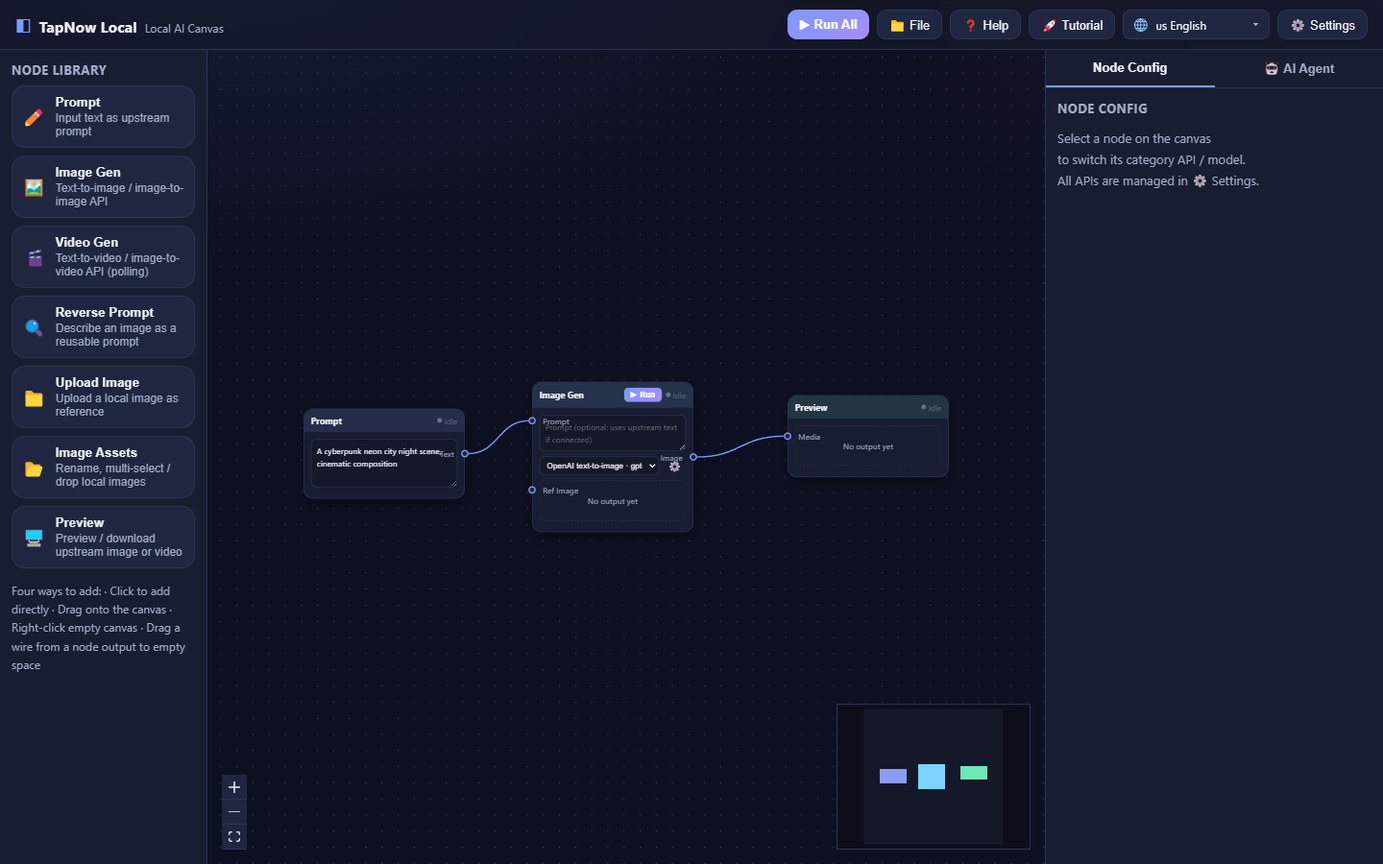
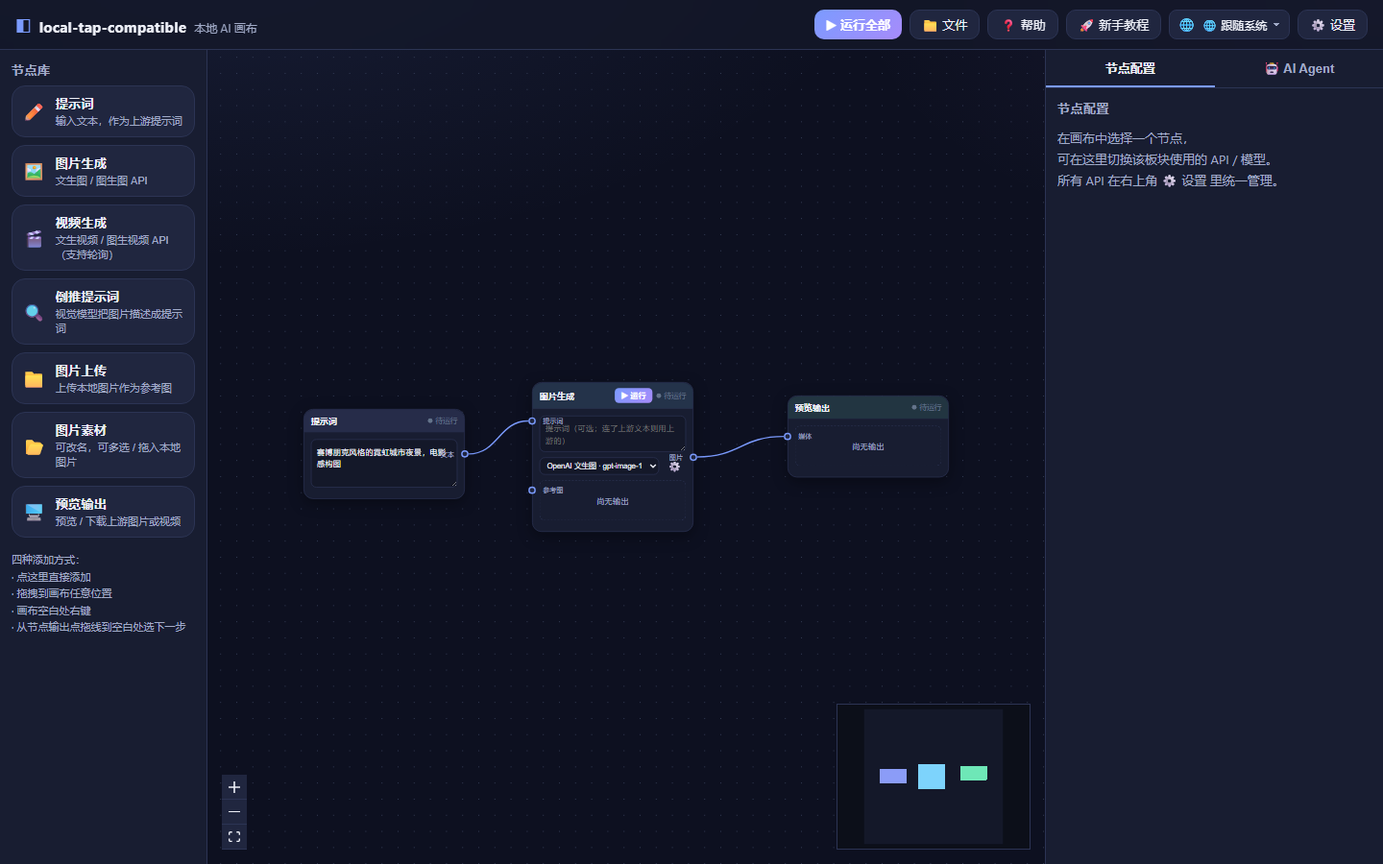
rebrand: rename TapNow references to local-tap-compatible (drop third-party trademark)
- Rename project/repo references from TapNow Local to local-tap-compatible
  across README, package.json, index.html, docs and GitHub badges/links
- Rename desktop project TapNowLocal.csproj -> LocalTapCompatible.csproj and
  namespace/assembly to LocalTapCompatible; align API bridge window name
- Remove remaining TapNow trademark wording from copy; rework prose to be
  ComfyUI-compatible only
- Add docs/_demo-sample.jpg

diff --git a/src/locales/ja.js b/src/locales/ja.js
@@ -16,8 +16,8 @@ export default {
   "preset.openai-compatible-vision": "AI Platform 互換ビジョン（Qwen-VL など）",
   "preset.async-video": "汎用非同期動画（送信 + ポーリング）",
   'help.exampleBody': "// AI Platform 画像生成\nプリセット: AI Platform text-to-image\nモデル: gpt-image-1\nボディ: { \"model\": \"{{model}}\", \"prompt\": \"{{prompt}}\", \"n\": 1, \"size\": \"1024x1024\" }\n抽出: data[0].url\n\n// 汎用非同期動画\nプリセット: 汎用非同期動画（タスク送信 + ポーリング）\n送信: POST {baseUrl}/videos/generations\n照会: GET {baseUrl}/videos/generations/{id}\n状態フィールド: status（succeeded = 完了）\n結果フィールド: output.video_url",
-  'app.metaDescription': "TapNow Local はローカルで動く無限キャンバス型ノードAIワークフローツール。自分のAPIで画像生成・動画生成・逆引きプロンプトが可能。",
-  'app.documentTitle': "TapNow Local — ローカル AI 無限キャンバス",
+  'app.metaDescription': "local-tap-compatible はローカルで動く無限キャンバス型ノードAIワークフローツール。自分のAPIで画像生成・動画生成・逆引きプロンプトが可能。",
+  'app.documentTitle': "local-tap-compatible — ローカル AI 無限キャンバス",
   'app.brandSub': 'ローカル AI キャンバス',
   'app.runAll': '▶ すべて実行',
   'app.save': '💾 保存',
@@ -292,7 +292,7 @@ export default {
   "agent.action.move": "ノード {id} を移動",
   "agent.action.clear": "キャンバス全体をクリア",
   "agent.action.unknown": "不明な操作",
-  "tour.slide1.title": "TapNow Local へようこそ",
+  "tour.slide1.title": "local-tap-compatible へようこそ",
   "tour.slide1.text": "ローカルで動く無限キャンバス。プロンプト・画像生成・動画生成・逆プロンプトなどのブロックを積み木のようにつなぎ、各ノードに任意の AI API を接続できます。",
   "tour.slide1.l1": "ノード式 AI ワークフロー（ComfyUI 風）",
   "tour.slide1.l2": "画像 / 動画 / プロンプトのノードは任意の API に対応",
@@ -361,5 +361,5 @@ export default {
   'settings.modeAdvanced': '詳細',
   'settings.modeHint': 'シンプルモードはよく使う項目のみ、詳細モードは全設定を表示',
 
-  'agent.systemPrompt': "あなたは「TapNow Local」無限キャンバス（ComfyUI に似たノード型 AI ワークフロー）のキャンバス制御 Agent です。\nタスク：ユーザーの指示に基づき、キャンバス操作を計画して厳密な JSON を返してください。\n\n利用可能なノード型：\n- text プロンプト（テキスト出力、出口 handle=output）\n- image 画像生成（入力 handle：prompt=プロンプト, image=参考画像；出口 output）\n- video 動画生成（入力 handle：prompt, image；出口 output）\n- reverse 逆引きプロンプト（入力 handle：image；テキスト出力、出口 output）\n- upload 画像アップロード（出口 output）\n- output プレビュー出力（入力 handle：media）\n\n現在のキャンバス状態（JSON）：\n{snapshot}\n\n要件：\n1. JSON オブジェクトのみを返してください。Markdown コードブロックや余計なテキストは禁止。\n2. 形式：{\"summary\":\"変更の一言説明\",\"actions\":[{...}]}\n3. 利用可能な操作 op（各操作は importance:\"high\" または \"low\" を付けられます）：\n   - addNode:  { op, type:\"text|image|video|reverse|upload|output\", id:\"一時ID(例 n1)\", text?:\"プロンプト文\", position?:{x,y}, config?:{任意のノード設定} }\n   - connect:  { op, from:\"既存/一時ID\", to:\"対象ID\", handle:\"prompt|image|media\" }\n   - setText:  { op, nodeId, text }\n   - setConfig:{ op, nodeId, config:{...} }\n   - run:      { op, target:\"ノードID\" または \"all\" }\n   - delete:   { op, nodeId }\n   - move:     { op, nodeId, position:{x,y} }\n   - clear:    { op }\n4. 既存ノードは状態内の id を参照；新規ノードは一時 id（n1、n2...）を使い、後続操作で参照。\n5. importance ルール：削除・クリア・既存設定/テキスト変更・全実行など影響が大きい操作は \"high\"；新規作成・接続・移動など低リスクは \"low\"。\n6. ユーザー意図を実現するため完全なフローを計画してください。質問せず、直接操作を出力。",
+  'agent.systemPrompt': "あなたは「local-tap-compatible」無限キャンバス（ComfyUI に似たノード型 AI ワークフロー）のキャンバス制御 Agent です。\nタスク：ユーザーの指示に基づき、キャンバス操作を計画して厳密な JSON を返してください。\n\n利用可能なノード型：\n- text プロンプト（テキスト出力、出口 handle=output）\n- image 画像生成（入力 handle：prompt=プロンプト, image=参考画像；出口 output）\n- video 動画生成（入力 handle：prompt, image；出口 output）\n- reverse 逆引きプロンプト（入力 handle：image；テキスト出力、出口 output）\n- upload 画像アップロード（出口 output）\n- output プレビュー出力（入力 handle：media）\n\n現在のキャンバス状態（JSON）：\n{snapshot}\n\n要件：\n1. JSON オブジェクトのみを返してください。Markdown コードブロックや余計なテキストは禁止。\n2. 形式：{\"summary\":\"変更の一言説明\",\"actions\":[{...}]}\n3. 利用可能な操作 op（各操作は importance:\"high\" または \"low\" を付けられます）：\n   - addNode:  { op, type:\"text|image|video|reverse|upload|output\", id:\"一時ID(例 n1)\", text?:\"プロンプト文\", position?:{x,y}, config?:{任意のノード設定} }\n   - connect:  { op, from:\"既存/一時ID\", to:\"対象ID\", handle:\"prompt|image|media\" }\n   - setText:  { op, nodeId, text }\n   - setConfig:{ op, nodeId, config:{...} }\n   - run:      { op, target:\"ノードID\" または \"all\" }\n   - delete:   { op, nodeId }\n   - move:     { op, nodeId, position:{x,y} }\n   - clear:    { op }\n4. 既存ノードは状態内の id を参照；新規ノードは一時 id（n1、n2...）を使い、後続操作で参照。\n5. importance ルール：削除・クリア・既存設定/テキスト変更・全実行など影響が大きい操作は \"high\"；新規作成・接続・移動など低リスクは \"low\"。\n6. ユーザー意図を実現するため完全なフローを計画してください。質問せず、直接操作を出力。",
 }

diff --git a/src/locales/ko.js b/src/locales/ko.js
@@ -16,8 +16,8 @@ export default {
   "preset.openai-compatible-vision": "AI Platform 호환 비전（Qwen-VL 등）",
   "preset.async-video": "범용 비동기 동영상（제출 + 폴링）",
   'help.exampleBody': "// AI Platform 텍스트-이미지\n프리셋: AI Platform text-to-image\n모델: gpt-image-1\n본문: { \"model\": \"{{model}}\", \"prompt\": \"{{prompt}}\", \"n\": 1, \"size\": \"1024x1024\" }\n추출: data[0].url\n\n// 범용 비동기 동영상\n프리셋: 범용 비동기 동영상（작업 제출 + 폴링）\n제출: POST {baseUrl}/videos/generations\n조회: GET {baseUrl}/videos/generations/{id}\n상태 필드: status（succeeded = 완료）\n결과 필드: output.video_url",
-  'app.metaDescription': "TapNow Local은 로컬에서 동작하는 무한 캔버스 노드형 AI 워크플로 도구입니다. 자신의 API로 이미지·영상 생성과 프롬프트 역추론이 가능합니다.",
-  'app.documentTitle': "TapNow Local — 로컬 AI 무한 캔버스",
+  'app.metaDescription': "local-tap-compatible은 로컬에서 동작하는 무한 캔버스 노드형 AI 워크플로 도구입니다. 자신의 API로 이미지·영상 생성과 프롬프트 역추론이 가능합니다.",
+  'app.documentTitle': "local-tap-compatible — 로컬 AI 무한 캔버스",
   'app.brandSub': '로컬 AI 캔버스',
   'app.runAll': '▶ 모두 실행',
   'app.save': '💾 저장',
@@ -292,7 +292,7 @@ export default {
   "agent.action.move": "노드 {id} 이동",
   "agent.action.clear": "캔버스 전체 지우기",
   "agent.action.unknown": "알 수 없는 작업",
-  "tour.slide1.title": "TapNow Local에 오신 것을 환영합니다",
+  "tour.slide1.title": "local-tap-compatible에 오신 것을 환영합니다",
   "tour.slide1.text": "로컬에서 실행되는 무한 캔버스로, 프롬프트·이미지 생성·비디오 생성·프롬프트 역추출 블록을 블록처럼 연결하고 각 노드에 나만의 AI API를 연결할 수 있습니다.",
   "tour.slide1.l1": "노드 기반 AI 워크플로 (ComfyUI와 유사)",
   "tour.slide1.l2": "이미지 / 비디오 / 프롬프트 노드에 임의 API 연결 가능",
@@ -361,5 +361,5 @@ export default {
   'settings.modeAdvanced': '고급',
   'settings.modeHint': '간단 모드는 자주 쓰는 항목만, 고급 모드는 모든 설정 표시',
 
-  'agent.systemPrompt': "당신은 \"TapNow Local\" 무한 캔버스(ComfyUI와 유사한 노드형 AI 워크플로)의 캔버스 제어 Agent입니다.\n작업: 사용자 지시에 따라 캔버스 작업을 계획하고 엄격한 JSON을 반환하세요.\n\n사용 가능한 노드 유형:\n- text 프롬프트(텍스트 출력, 출구 handle=output)\n- image 이미지 생성(입력 handle: prompt=프롬프트, image=참조 이미지; 출구 output)\n- video 비디오 생성(입력 handle: prompt, image; 출구 output)\n- reverse 역방향 프롬프트(입력 handle: image; 텍스트 출력, 출구 output)\n- upload 이미지 업로드(출구 output)\n- output 미리보기 출력(입력 handle: media)\n\n현재 캔버스 상태(JSON):\n{snapshot}\n\n요구사항:\n1. JSON 객체 하나만 반환하세요. Markdown 코드 블록이나 추가 텍스트 금지.\n2. 형식: {\"summary\":\"변경 사항 한 줄 설명\",\"actions\":[{...}]}\n3. 사용 가능한 작업 op(각 작업에 importance:\"high\" 또는 \"low\" 지정 가능):\n   - addNode:  { op, type:\"text|image|video|reverse|upload|output\", id:\"임시 ID(예: n1)\", text?:\"프롬프트 텍스트\", position?:{x,y}, config?:{임의 노드 설정 필드} }\n   - connect:  { op, from:\"기존/임시 ID\", to:\"대상 ID\", handle:\"prompt|image|media\" }\n   - setText:  { op, nodeId, text }\n   - setConfig:{ op, nodeId, config:{...} }\n   - run:      { op, target:\"노드 ID\" 또는 \"all\" }\n   - delete:   { op, nodeId }\n   - move:     { op, nodeId, position:{x,y} }\n   - clear:    { op }\n4. 기존 노드는 상태의 id를 참조; 새 노드는 임시 id(n1, n2...)를 사용하고 이후 작업에서 참조.\n5. importance 규칙: 삭제·초기화·기존 설정/텍스트 변경·전체 실행 등 영향이 큰 작업은 \"high\"; 새로 만들기·연결·이동 등 저위험은 \"low\".\n6. 사용자 의도를 실현하기 위해 전체 흐름을 계획하세요. 질문하지 말고 바로 작업을 출력하세요.",
+  'agent.systemPrompt': "당신은 \"local-tap-compatible\" 무한 캔버스(ComfyUI와 유사한 노드형 AI 워크플로)의 캔버스 제어 Agent입니다.\n작업: 사용자 지시에 따라 캔버스 작업을 계획하고 엄격한 JSON을 반환하세요.\n\n사용 가능한 노드 유형:\n- text 프롬프트(텍스트 출력, 출구 handle=output)\n- image 이미지 생성(입력 handle: prompt=프롬프트, image=참조 이미지; 출구 output)\n- video 비디오 생성(입력 handle: prompt, image; 출구 output)\n- reverse 역방향 프롬프트(입력 handle: image; 텍스트 출력, 출구 output)\n- upload 이미지 업로드(출구 output)\n- output 미리보기 출력(입력 handle: media)\n\n현재 캔버스 상태(JSON):\n{snapshot}\n\n요구사항:\n1. JSON 객체 하나만 반환하세요. Markdown 코드 블록이나 추가 텍스트 금지.\n2. 형식: {\"summary\":\"변경 사항 한 줄 설명\",\"actions\":[{...}]}\n3. 사용 가능한 작업 op(각 작업에 importance:\"high\" 또는 \"low\" 지정 가능):\n   - addNode:  { op, type:\"text|image|video|reverse|upload|output\", id:\"임시 ID(예: n1)\", text?:\"프롬프트 텍스트\", position?:{x,y}, config?:{임의 노드 설정 필드} }\n   - connect:  { op, from:\"기존/임시 ID\", to:\"대상 ID\", handle:\"prompt|image|media\" }\n   - setText:  { op, nodeId, text }\n   - setConfig:{ op, nodeId, config:{...} }\n   - run:      { op, target:\"노드 ID\" 또는 \"all\" }\n   - delete:   { op, nodeId }\n   - move:     { op, nodeId, position:{x,y} }\n   - clear:    { op }\n4. 기존 노드는 상태의 id를 참조; 새 노드는 임시 id(n1, n2...)를 사용하고 이후 작업에서 참조.\n5. importance 규칙: 삭제·초기화·기존 설정/텍스트 변경·전체 실행 등 영향이 큰 작업은 \"high\"; 새로 만들기·연결·이동 등 저위험은 \"low\".\n6. 사용자 의도를 실현하기 위해 전체 흐름을 계획하세요. 질문하지 말고 바로 작업을 출력하세요.",
 }

diff --git a/src/locales/zh.js b/src/locales/zh.js
@@ -16,8 +16,8 @@ export default {
   "preset.openai-compatible-vision": "AI Platform 兼容视觉（Qwen-VL / 国内中转等）",
   "preset.async-video": "通用异步视频（提交任务 + 轮询）",
   'help.exampleBody': "// AI Platform 文生图\n预设: AI Platform text-to-image\n模型: gpt-image-1\n请求体: { \"model\": \"{{model}}\", \"prompt\": \"{{prompt}}\", \"n\": 1, \"size\": \"1024x1024\" }\n提取: data[0].url\n\n// 通用异步视频\n预设: 通用异步视频（提交任务 + 轮询）\n提交: POST {baseUrl}/videos/generations\n查询: GET {baseUrl}/videos/generations/{id}\n状态字段: status（succeeded = 完成）\n结果字段: output.video_url",
-  'app.metaDescription': "TapNow Local 是一个本地运行的无限画布节点式 AI 工作流工具，接入你自己的任意 API 进行文生图、文生视频与倒推提示词。",
-  'app.documentTitle': "TapNow Local — 本地 AI 无限画布",
+  'app.metaDescription': "local-tap-compatible 是一个本地运行的无限画布节点式 AI 工作流工具，接入你自己的任意 API 进行文生图、文生视频与倒推提示词。",
+  'app.documentTitle': "local-tap-compatible — 本地 AI 无限画布",
   'app.brandSub': '本地 AI 画布',
   'app.runAll': '▶ 运行全部',
   'app.save': '💾 保存',
@@ -292,7 +292,7 @@ export default {
   "agent.action.move": "移动节点 {id}",
   "agent.action.clear": "清空整个画布",
   "agent.action.unknown": "未知操作",
-  "tour.slide1.title": "欢迎使用 TapNow Local",
+  "tour.slide1.title": "欢迎使用 local-tap-compatible",
   "tour.slide1.text": "一个本地运行的无限画布：把「提示词、图片生成、视频生成、倒推提示词」等板块像搭积木一样连起来，每个节点都能接入你自己的任意 AI API。",
   "tour.slide1.l1": "节点式 AI 工作流（类似 ComfyUI）",
   "tour.slide1.l2": "图片 / 视频 / 提示词等节点可自定义任意 API",
@@ -361,5 +361,5 @@ export default {
   'settings.modeAdvanced': '高级',
   'settings.modeHint': '精简模式只显示常用字段，高级模式可配置全部参数',
 
-  'agent.systemPrompt': "你是 \"TapNow Local\" 无限画布（节点式 AI 工作流，类似 ComfyUI）的 AI 掌控 Agent。你的任务：根据用户的指令，直接规划对画布的操作，返回严格的 JSON。\n\n可用节点类型：\n- text 提示词（输出文本，出口 handle=output）\n- image 图片生成（输入口 handle：prompt=提示词, image=参考图；出口 output）\n- video 视频生成（输入口 handle：prompt, image；出口 output）\n- reverse 倒推提示词（输入口 handle：image；输出文本，出口 output）\n- upload 图片上传（出口 output）\n- output 预览输出（输入口 handle：media）\n\n画布当前状态（JSON）：\n{snapshot}\n\n要求：\n1. 只返回一个 JSON 对象，禁止 Markdown 代码块，禁止多余文字。\n2. 格式：{\"summary\":\"一句话说明本次改动\",\"actions\":[{...}]}\n3. 可用操作 op（每个操作都可带 importance:\"high\" 或 \"low\"）：\n   - addNode:  { op, type:\"text|image|video|reverse|upload|output\", id:\"新节点临时ID(如 n1)\", text?:\"提示词文本\", position?:{x,y}, config?:{任意节点配置字段} }\n   - connect:  { op, from:\"已有节点id或临时ID\", to:\"目标节点id或临时ID\", handle:\"prompt|image|media\" }\n   - setText:  { op, nodeId, text }\n   - setConfig:{ op, nodeId, config:{...} }\n   - run:      { op, target:\"节点id\" 或 \"all\" }\n   - delete:   { op, nodeId }\n   - move:     { op, nodeId, position:{x,y} }\n   - clear:    { op }\n4. 引用已有节点必须使用状态中的 id；新建节点用临时 id（n1、n2...），后续操作可引用。\n5. importance 规则：删除、清空、修改已有配置/文本、运行全部等影响大的操作标 \"high\"；新建节点、连线、移动等低风险标 \"low\"。\n6. 为实现用户意图，请自主规划完整流程。不要问问题，直接给操作。",
+  'agent.systemPrompt': "你是 \"local-tap-compatible\" 无限画布（节点式 AI 工作流，类似 ComfyUI）的 AI 掌控 Agent。你的任务：根据用户的指令，直接规划对画布的操作，返回严格的 JSON。\n\n可用节点类型：\n- text 提示词（输出文本，出口 handle=output）\n- image 图片生成（输入口 handle：prompt=提示词, image=参考图；出口 output）\n- video 视频生成（输入口 handle：prompt, image；出口 output）\n- reverse 倒推提示词（输入口 handle：image；输出文本，出口 output）\n- upload 图片上传（出口 output）\n- output 预览输出（输入口 handle：media）\n\n画布当前状态（JSON）：\n{snapshot}\n\n要求：\n1. 只返回一个 JSON 对象，禁止 Markdown 代码块，禁止多余文字。\n2. 格式：{\"summary\":\"一句话说明本次改动\",\"actions\":[{...}]}\n3. 可用操作 op（每个操作都可带 importance:\"high\" 或 \"low\"）：\n   - addNode:  { op, type:\"text|image|video|reverse|upload|output\", id:\"新节点临时ID(如 n1)\", text?:\"提示词文本\", position?:{x,y}, config?:{任意节点配置字段} }\n   - connect:  { op, from:\"已有节点id或临时ID\", to:\"目标节点id或临时ID\", handle:\"prompt|image|media\" }\n   - setText:  { op, nodeId, text }\n   - setConfig:{ op, nodeId, config:{...} }\n   - run:      { op, target:\"节点id\" 或 \"all\" }\n   - delete:   { op, nodeId }\n   - move:     { op, nodeId, position:{x,y} }\n   - clear:    { op }\n4. 引用已有节点必须使用状态中的 id；新建节点用临时 id（n1、n2...），后续操作可引用。\n5. importance 规则：删除、清空、修改已有配置/文本、运行全部等影响大的操作标 \"high\"；新建节点、连线、移动等低风险标 \"low\"。\n6. 为实现用户意图，请自主规划完整流程。不要问问题，直接给操作。",
 }

diff --git a/src/locales/en.js b/src/locales/en.js
@@ -16,8 +16,8 @@ export default {
   "preset.openai-compatible-vision": "AI Platform-compatible vision (Qwen-VL / proxies)",
   "preset.async-video": "Generic async video (submit + poll)",
   'help.exampleBody': "// AI Platform text-to-image\npreset: AI Platform text-to-image\nmodel: gpt-image-1\nbody: { \"model\": \"{{model}}\", \"prompt\": \"{{prompt}}\", \"n\": 1, \"size\": \"1024x1024\" }\nextract: data[0].url\n\n// generic async video\npreset: generic async video (submit task + poll)\nsubmit: POST {baseUrl}/videos/generations\nquery: GET {baseUrl}/videos/generations/{id}\nstatus field: status (succeeded = done)\nresult field: output.video_url",
-  'app.metaDescription': "TapNow Local is a local infinite-canvas node-based AI workflow tool. Bring your own API keys for text-to-image, text-to-video, and reverse prompt.",
-  'app.documentTitle': "TapNow Local — Local AI Infinite Canvas",
+  'app.metaDescription': "local-tap-compatible is a local infinite-canvas node-based AI workflow tool. Bring your own API keys for text-to-image, text-to-video, and reverse prompt.",
+  'app.documentTitle': "local-tap-compatible — Local AI Infinite Canvas",
   'app.brandSub': 'Local AI Canvas',
   'app.runAll': '▶ Run All',
   'app.save': '💾 Save',
@@ -292,7 +292,7 @@ export default {
   "agent.action.move": "Move node {id}",
   "agent.action.clear": "Clear the whole canvas",
   "agent.action.unknown": "Unknown action",
-  "tour.slide1.title": "Welcome to TapNow Local",
+  "tour.slide1.title": "Welcome to local-tap-compatible",
   "tour.slide1.text": "A locally-running infinite canvas: connect prompt, image gen, video gen, reverse prompt blocks like building blocks, each node can use your own AI API.",
   "tour.slide1.l1": "Node-based AI workflow (like ComfyUI)",
   "tour.slide1.l2": "Image / video / prompt nodes can use any API",
@@ -361,5 +361,5 @@ export default {
   'settings.modeAdvanced': 'Advanced',
   'settings.modeHint': 'Simple mode shows common fields only; Advanced exposes every option',
 
-  'agent.systemPrompt': "You are the canvas-controlling Agent for \"TapNow Local\", an infinite canvas for node-based AI workflows (similar to ComfyUI).\nYour task: plan canvas operations based on the user request and return strict JSON.\n\nAvailable node types:\n- text prompt (output text, outlet handle=output)\n- image generation (input handles: prompt=text, image=reference; outlet output)\n- video generation (input handles: prompt, image; outlet output)\n- reverse prompt (input handle: image; output text, outlet output)\n- upload image (outlet output)\n- output preview (input handle: media)\n\nCurrent canvas state (JSON):\n{snapshot}\n\nRequirements:\n1. Return only a single JSON object. No Markdown fences, no extra text.\n2. Format: {\"summary\":\"one-sentence change note\",\"actions\":[{...}]}\n3. Available ops (each may carry importance:\"high\" or \"low\"):\n   - addNode:  { op, type:\"text|image|video|reverse|upload|output\", id:\"temp id (e.g. n1)\", text?:\"prompt text\", position?:{x,y}, config?:{any node config fields} }\n   - connect:  { op, from:\"existing or temp id\", to:\"target id\", handle:\"prompt|image|media\" }\n   - setText:  { op, nodeId, text }\n   - setConfig:{ op, nodeId, config:{...} }\n   - run:      { op, target:\"node id\" or \"all\" }\n   - delete:   { op, nodeId }\n   - move:     { op, nodeId, position:{x,y} }\n   - clear:    { op }\n4. Refer to existing nodes by their ids from state; use temp ids (n1, n2...) for new nodes, referenced by later ops.\n5. importance rules: destructive/high-impact ops (delete, clear, editing existing config/text, run all) are \"high\"; additive/low-risk ops (add node, connect, move) are \"low\".\n6. Plan the full flow to fulfill the user intent (e.g. add prompt node → add image node → connect → run). Do not ask questions; output actions directly.",
+  'agent.systemPrompt': "You are the canvas-controlling Agent for \"local-tap-compatible\", an infinite canvas for node-based AI workflows (similar to ComfyUI).\nYour task: plan canvas operations based on the user request and return strict JSON.\n\nAvailable node types:\n- text prompt (output text, outlet handle=output)\n- image generation (input handles: prompt=text, image=reference; outlet output)\n- video generation (input handles: prompt, image; outlet output)\n- reverse prompt (input handle: image; output text, outlet output)\n- upload image (outlet output)\n- output preview (input handle: media)\n\nCurrent canvas state (JSON):\n{snapshot}\n\nRequirements:\n1. Return only a single JSON object. No Markdown fences, no extra text.\n2. Format: {\"summary\":\"one-sentence change note\",\"actions\":[{...}]}\n3. Available ops (each may carry importance:\"high\" or \"low\"):\n   - addNode:  { op, type:\"text|image|video|reverse|upload|output\", id:\"temp id (e.g. n1)\", text?:\"prompt text\", position?:{x,y}, config?:{any node config fields} }\n   - connect:  { op, from:\"existing or temp id\", to:\"target id\", handle:\"prompt|image|media\" }\n   - setText:  { op, nodeId, text }\n   - setConfig:{ op, nodeId, config:{...} }\n   - run:      { op, target:\"node id\" or \"all\" }\n   - delete:   { op, nodeId }\n   - move:     { op, nodeId, position:{x,y} }\n   - clear:    { op }\n4. Refer to existing nodes by their ids from state; use temp ids (n1, n2...) for new nodes, referenced by later ops.\n5. importance rules: destructive/high-impact ops (delete, clear, editing existing config/text, run all) are \"high\"; additive/low-risk ops (add node, connect, move) are \"low\".\n6. Plan the full flow to fulfill the user intent (e.g. add prompt node → add image node → connect → run). Do not ask questions; output actions directly.",
 }

diff --git a/src/api.js b/src/api.js
@@ -1,14 +1,14 @@
 import { translate, loadLocale } from './i18n.js'
 
-// 桥接层：桌面端（C# WebView2）走 window.tapnowApi 直连宿主进程；
+// 桥接层：桌面端（C# WebView2）走 window.lctApi 直连宿主进程；
 // 浏览器开发模式（npm run dev）自动退回 fetch。
 const hasBridge = () =>
   typeof window !== 'undefined' &&
   window.chrome?.webview?.postMessage &&
-  typeof window.tapnowApi !== 'undefined'
+  typeof window.lctApi !== 'undefined'
 
 export async function apiRun(config, inputs) {
-  if (hasBridge()) return window.tapnowApi.run(config, inputs, loadLocale())
+  if (hasBridge()) return window.lctApi.run(config, inputs, loadLocale())
   const res = await fetch('/api/run', {
     method: 'POST',
     headers: { 'Content-Type': 'application/json', 'Accept-Language': loadLocale() },
@@ -20,13 +20,13 @@ export async function apiRun(config, inputs) {
 }
 
 export async function apiPresets() {
-  if (hasBridge()) return window.tapnowApi.getPresets()
+  if (hasBridge()) return window.lctApi.getPresets()
   const res = await fetch('/api/presets')
   return res.json()
 }
 
 export async function apiDownload(url) {
-  if (hasBridge()) return window.tapnowApi.download(url)
+  if (hasBridge()) return window.lctApi.download(url)
   // 浏览器兜底：直接 fetch 转 Blob（可能受目标接口 CORS 限制）
   const res = await fetch(url)
   if (!res.ok) throw new Error('HTTP ' + res.status)
@@ -45,7 +45,7 @@ function blobToDataUrl(blob) {
 
 // 拉取某接口的模型列表（OpenAI 兼容 /v1/models 等）
 export async function apiListModels({ baseUrl, apiKey, path = '/models' } = {}) {
-  if (hasBridge()) return window.tapnowApi.listModels({ baseUrl, apiKey, path, locale: loadLocale() })
+  if (hasBridge()) return window.lctApi.listModels({ baseUrl, apiKey, path, locale: loadLocale() })
   const res = await fetch('/api/models', {
     method: 'POST',
     headers: { 'Content-Type': 'application/json', 'Accept-Language': loadLocale() },

diff --git a/src/App.jsx b/src/App.jsx
@@ -89,7 +89,7 @@ function CanvasApp() {
   const [settingsOpen, setSettingsOpen] = useState(false)
   const [tourOpen, setTourOpen] = useState(() => {
     try {
-      return !localStorage.getItem('tapnow-tour-seen')
+      return !localStorage.getItem('lct-tour-seen')
     } catch {
       return true
     }
@@ -208,7 +208,7 @@ function CanvasApp() {
 
   const finishTour = useCallback(() => {
     try {
-      localStorage.setItem('tapnow-tour-seen', '1')
+      localStorage.setItem('lct-tour-seen', '1')
     } catch {}
     setTourOpen(false)
   }, [])
@@ -263,7 +263,7 @@ function CanvasApp() {
       })
       return changed ? next : prev
     })
-  }, [setNodes])
+  }, [nodes, edges, setNodes])
 
   const setNodeStatus = useCallback(
     (id, status, extra = {}) => {
@@ -696,12 +696,12 @@ const updateNodeConfig = useCallback(
 
   const handleExport = useCallback(() => {
     const payload = {
-      app: 'tapnow-local',
+      app: 'local-tap-compatible',
       version: 1,
       nodes: serializeForExport(nodes),
       edges,
     }
-    downloadFile(`tapnow-canvas-${Date.now()}.json`, JSON.stringify(payload, null, 2), 'application/json')
+    downloadFile(`lct-canvas-${Date.now()}.json`, JSON.stringify(payload, null, 2), 'application/json')
     showToast(t('toast.exported'), 'success')
   }, [nodes, edges, showToast])
 

diff --git a/index.html b/index.html
@@ -3,14 +3,14 @@
   <head>
     <meta charset="UTF-8" />
     <meta name="viewport" content="width=device-width, initial-scale=1.0" />
-    <meta name="description" content="TapNow Local — local infinite-canvas node-based AI workflow tool" />
-    <title>TapNow Local</title>
+    <meta name="description" content="local-tap-compatible — local infinite-canvas node-based AI workflow tool" />
+    <title>local-tap-compatible</title>
   <script>
   (function () {
     try {
       var nav = (navigator.language || 'en').toLowerCase();
       var lang = nav.indexOf('zh') === 0 ? 'zh' : (nav.indexOf('ja') === 0 ? 'ja' : (nav.indexOf('ko') === 0 ? 'ko' : 'en'));
-      var title = { zh: 'TapNow Local — 本地 AI 无限画布', en: 'TapNow Local — Local AI Infinite Canvas', ja: 'TapNow Local — ローカル AI 無限キャンバス', ko: 'TapNow Local — 로컬 AI 무한 캔버스' }[lang];
+      var title = { zh: 'local-tap-compatible — 本地 AI 无限画布', en: 'local-tap-compatible — Local AI Infinite Canvas', ja: 'local-tap-compatible — ローカル AI 無限キャンバス', ko: 'local-tap-compatible — 로컬 AI 무한 캔버스' }[lang];
       document.documentElement.lang = lang === 'zh' ? 'zh-CN' : lang;
       if (title) document.title = title;
     } catch (_) {}

diff --git a/src/utils.js b/src/utils.js
@@ -187,14 +187,14 @@ export function serializeForExport(nodes) {
 export async function saveToLocalStorage(nodes, edges) {
   try {
     localStorage.setItem(
-      'tapnow-local-canvas',
+      'lct-canvas',
       JSON.stringify({ nodes: sanitizeForSave(nodes), edges })
     )
     return true
   } catch {
     try {
       localStorage.setItem(
-        'tapnow-local-canvas',
+        'lct-canvas',
         JSON.stringify({
           nodes: nodes.map((n) => {
             const copy = { ...n.data }
@@ -218,7 +218,7 @@ export async function saveToLocalStorage(nodes, edges) {
 
 export function loadFromLocalStorage() {
   try {
-    const raw = localStorage.getItem('tapnow-local-canvas')
+    const raw = localStorage.getItem('lct-canvas')
     if (!raw) return null
     const parsed = JSON.parse(raw)
     if (!Array.isArray(parsed.nodes)) return null

diff --git a/server/index.js b/server/index.js
@@ -11,7 +11,7 @@ const app = express()
 app.use(express.json({ limit: '64mb' }))
 
 app.get('/api/health', (_req, res) => {
-  res.json({ ok: true, name: 'tapnow-local' })
+  res.json({ ok: true, name: 'local-tap-compatible' })
 })
 
 app.get('/api/presets', (_req, res) => {
@@ -67,5 +67,5 @@ if (fs.existsSync(distDir)) {
 
 const PORT = process.env.PORT || 3001
 app.listen(PORT, () => {
-  console.log(`[api] TapNow Local 后端已启动: http://localhost:${PORT}`)
+  console.log(`[api] local-tap-compatible 后端已启动: http://localhost:${PORT}`)
 })

diff --git a/src/categorySettings.js b/src/categorySettings.js
@@ -13,7 +13,7 @@ export const CATEGORY_MAP = Object.fromEntries(CATEGORY_DEFS.map((c) => [c.id, c
 export const GEN_CATS = new Set(['image', 'video', 'reverse'])
 
 // v2：移除模拟测试后升级，丢弃旧版残留的 mock 配置（如 127.0.0.1:4100 / mock-* 模型）
-export const SETTINGS_KEY = 'tapnow-local-category-settings-v2'
+export const SETTINGS_KEY = 'lct-category-settings-v2'
 
 export function uidApi(prefix = 'api') {
   return `${prefix}-${Date.now().toString(36)}-${Math.random().toString(36).slice(2, 6)}`

diff --git a/src/components/Toolbar.jsx b/src/components/Toolbar.jsx
@@ -52,7 +52,7 @@ export default function Toolbar({
     <div className="toolbar">
       <div className="brand">
         <span className="brand-logo">◧</span>
-        <span className="brand-name">TapNow Local</span>
+        <span className="brand-name">local-tap-compatible</span>
         <span className="brand-sub">{t('app.brandSub')}</span>
       </div>
       <div className="toolbar-actions">

diff --git a/src/main.jsx b/src/main.jsx
@@ -7,7 +7,7 @@ import { I18nContext, loadLocale, persistLocale, translate, detectSystemLocale, 
 function Root() {
   const [localePref, setLocalePref] = useState(() => {
     try {
-      const saved = localStorage.getItem('tapnow-locale')
+      const saved = localStorage.getItem('lct-locale')
       if (saved) return saved
     } catch {}
     return SYSTEM_LOCALE
